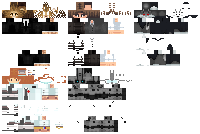
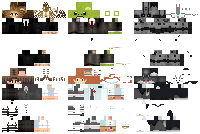
feat: add skin droyne-0

diff --git a/TODO.md b/TODO.md
@@ -362,13 +362,14 @@ w decor.byKey.test-decor-point
 
 - ❌ remove internal SVG path editor
 
-- 🚧 clean skins
+- ✅ clean skins
   - ✅ civilian-0 -> human-0
   - ✅ human-0.svg with extra detail
   - ✅ discard skins
-  - 🚧 add new skins
+  - ✅ add new skins
     - aslan-0
-    - ...
+    - vargr-0
+    - droyne-0
 
 - larger pause UI
 - larger mobile UI
